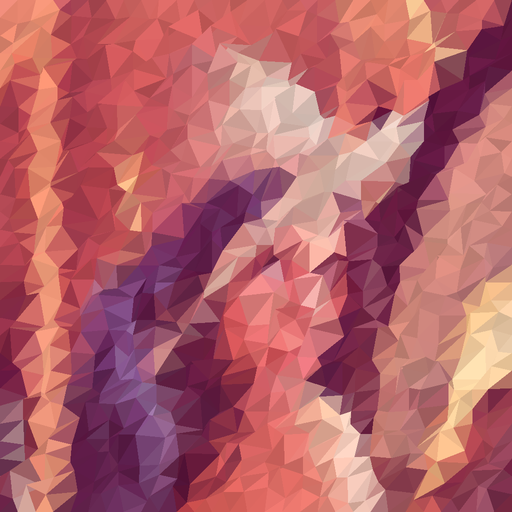
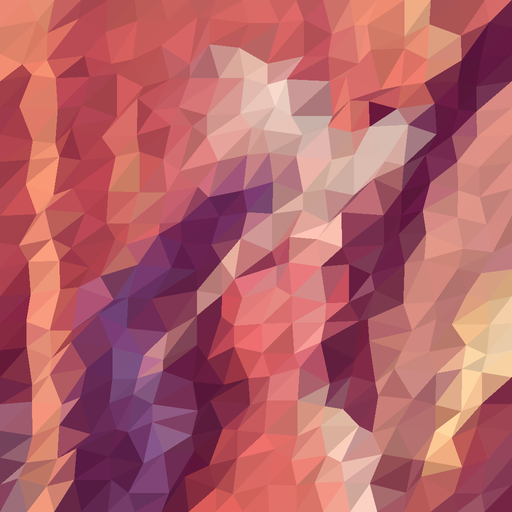
Examples in README

diff --git a/README.md b/README.md
@@ -1,6 +1,12 @@
 # lowpoly
 
  A simple and inefficient low-polygon image generator 
+ 
+## Examples
+
+Original                                  |Lowpoly
+:----------------------------------------:|:------------------------------------------------:
+<img src="examples/lena.png" width="256"> |<img src="examples/lena_lowpoly.png" width="256"> 
 
 ## Usage
 ```
